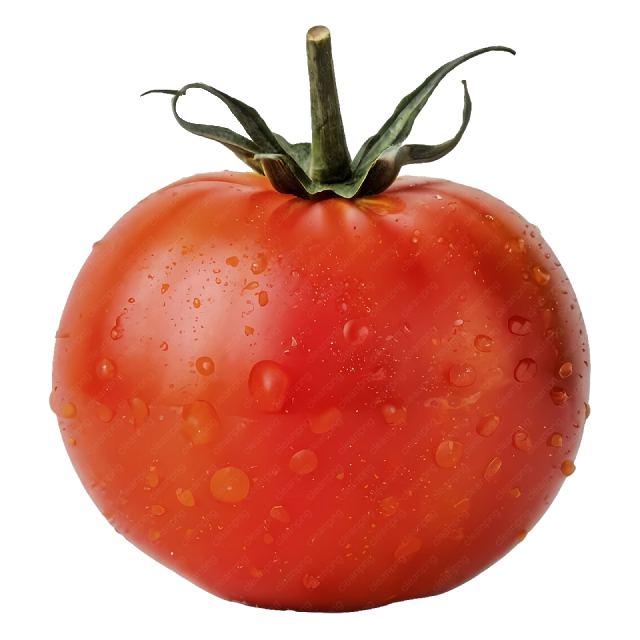
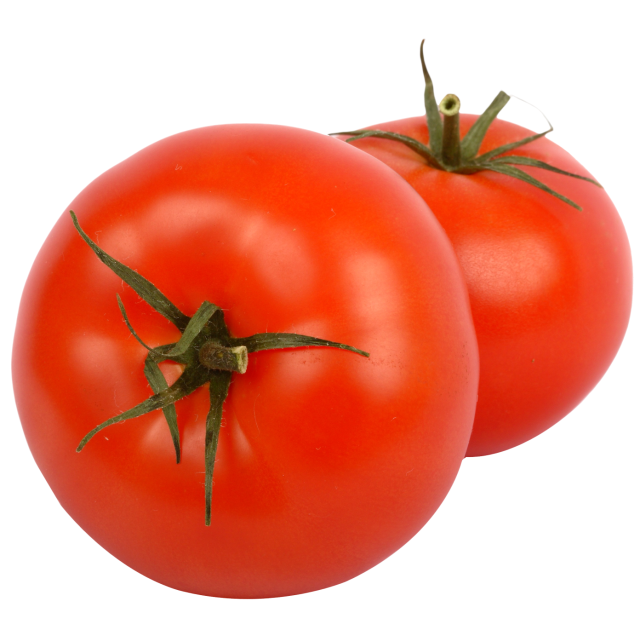
Added images and added config for Render

diff --git a/frontend/constants/images.ts b/frontend/constants/images.ts
@@ -1,42 +1,42 @@
 export const PRODUCT_IMAGES = {
     // Fruits
-    tomato: require('../assets/images/products/tomato.png'),
-    // banana: require('../assets/images/products/banana.png'),
-    // apple: require('../assets/images/products/apple.png'),
-    // orange: require('../assets/images/products/orange.png'),
-    // mango: require('../assets/images/products/mango.png'),
-    // pineapple: require('../assets/images/products/pineapple.png'),
-    // papaya: require('../assets/images/products/papaya.png'),
-    // guava: require('../assets/images/products/guava.png'),
-    // lychee: require('../assets/images/products/lychee.png'),
-    // coconut: require('../assets/images/products/coconut.png'),
-    // lemon: require('../assets/images/products/lemon.png'),
-    // lime: require('../assets/images/products/lime.png'),
-    // watermelon: require('../assets/images/products/watermelon.png'),
-    // melon: require('../assets/images/products/melon.png'),
-    // grapes: require('../assets/images/products/grapes.png'),
-    // strawberry: require('../assets/images/products/strawberry.png'),
+    banana: require('../assets/images/products/banana.png'),
+    apple: require('../assets/images/products/apple.png'),
+    orange: require('../assets/images/products/orange.png'),
+    mango: require('../assets/images/products/mango.png'),
+    pineapple: require('../assets/images/products/pineapple.png'),
+    papaya: require('../assets/images/products/papaya.png'),
+    guava: require('../assets/images/products/guava.png'),
+    lychee: require('../assets/images/products/lychee.png'),
+    coconut: require('../assets/images/products/coconut.png'),
+    lemon: require('../assets/images/products/lemon.png'),
+    lime: require('../assets/images/products/lime.png'),
+    watermelon: require('../assets/images/products/watermelon.png'),
+    melon: require('../assets/images/products/melon.png'),
+    grapes: require('../assets/images/products/grapes.png'),
+    strawberry: require('../assets/images/products/strawberry.png'),
 
     // Vegetables
-    // potato: require('../assets/images/products/potato.png'),
-    // carrot: require('../assets/images/products/carrot.png'),
-    // onion: require('../assets/images/products/onion.png'),
-    // cabbage: require('../assets/images/products/cabbage.png'),
-    // lettuce: require('../assets/images/products/lettuce.png'),
-    // spinach: require('../assets/images/products/spinach.png'),
-    // broccoli: require('../assets/images/products/broccoli.png'),
-    // cauliflower: require('../assets/images/products/cauliflower.png'),
-    // bell_pepper: require('../assets/images/products/bell_pepper.png'),
-    // chili: require('../assets/images/products/chili.png'),
-    // cucumber: require('../assets/images/products/cucumber.png'),
-    // eggplant: require('../assets/images/products/eggplant.png'),
-    // okra: require('../assets/images/products/okra.png'),
-    // green_beans: require('../assets/images/products/green_beans.png'),
-    // pumpkin: require('../assets/images/products/pumpkin.png'),
-    // beetroot: require('../assets/images/products/beetroot.png'),
-    // radish: require('../assets/images/products/radish.png'),
-    // ginger: require('../assets/images/products/ginger.png'),
-    // garlic: require('../assets/images/products/garlic.png'),
+    tomato: require('../assets/images/products/tomato.png'),
+    potato: require('../assets/images/products/potato.png'),
+    carrot: require('../assets/images/products/carrot.png'),
+    onion: require('../assets/images/products/onion.png'),
+    cabbage: require('../assets/images/products/cabbage.png'),
+    lettuce: require('../assets/images/products/lettuce.png'),
+    spinach: require('../assets/images/products/spinach.png'),
+    broccoli: require('../assets/images/products/broccoli.png'),
+    cauliflower: require('../assets/images/products/cauliflower.png'),
+    bell_pepper: require('../assets/images/products/bell_pepper.png'),
+    chili: require('../assets/images/products/chili.png'),
+    cucumber: require('../assets/images/products/cucumber.png'),
+    eggplant: require('../assets/images/products/eggplant.png'),
+    okra: require('../assets/images/products/okra.png'),
+    green_beans: require('../assets/images/products/green_beans.png'),
+    pumpkin: require('../assets/images/products/pumpkin.png'),
+    beetroot: require('../assets/images/products/beetroot.png'),
+    radish: require('../assets/images/products/radish.png'),
+    ginger: require('../assets/images/products/ginger.png'),
+    garlic: require('../assets/images/products/garlic.png'),
 
     // Default fallback image
     default: require('../assets/images/products/default.png'),

diff --git a/frontend/components/farmer/ProductCard.tsx b/frontend/components/farmer/ProductCard.tsx
@@ -288,8 +288,8 @@ export default function ProductCard({ product, onEdit, onToggleStatus }: Product
                                     <Image
                                         source={productImage}
                                         style={{
-                                            width: '60%',
-                                            height: '60%',
+                                            width: '80%',
+                                            height: '80%',
                                             resizeMode: 'contain',
                                         }}
                                         onError={() => setImageError(true)}

diff --git a/frontend/components/customer/ProductCard.tsx b/frontend/components/customer/ProductCard.tsx
@@ -239,8 +239,8 @@ export default function ProductCard({ product }: ProductCardProps) {
                                 <Image
                                     source={productImage}
                                     style={{
-                                        width: '60%',
-                                        height: '60%',
+                                        width: '80%',
+                                        height: '80%',
                                         resizeMode: 'contain',
                                     }}
                                     onError={() => setImageError(true)}

diff --git a/backend/main.py b/backend/main.py
@@ -1,13 +1,33 @@
 from fastapi import FastAPI
+from contextlib import asynccontextmanager
+import os
 from core.database import Base, engine
 from routers import auth, product, order, browse
+from seed_data import seed_database
 
-Base.metadata.create_all(bind=engine)
 
-app = FastAPI()
+@asynccontextmanager
+async def lifespan(app: FastAPI):
+    # Startup
+    Base.metadata.create_all(bind=engine)
+
+    # Check if we need to seed the database
+    # This checks if the database file is very small (just created) or doesn't exist
+    db_file = "./farmlink.db"
+    if not os.path.exists(db_file) or os.path.getsize(db_file) < 1024:  # less than 1KB
+        print("🌱 Seeding database...")
+        seed_database()
+        print("✅ Database seeded successfully!")
+    else:
+        print("📊 Database already exists, skipping seeding")
+
+    yield
+    # Shutdown (add cleanup code here if needed)
+
+
+app = FastAPI(lifespan=lifespan)
 
 app.include_router(auth.router, prefix="/auth", tags=["Authentication"])
 app.include_router(product.router, prefix="/products", tags=["Products"])
 app.include_router(order.router, prefix="/orders", tags=["Orders"])
 app.include_router(browse.router, prefix="/browse", tags=["Browse"])
-
